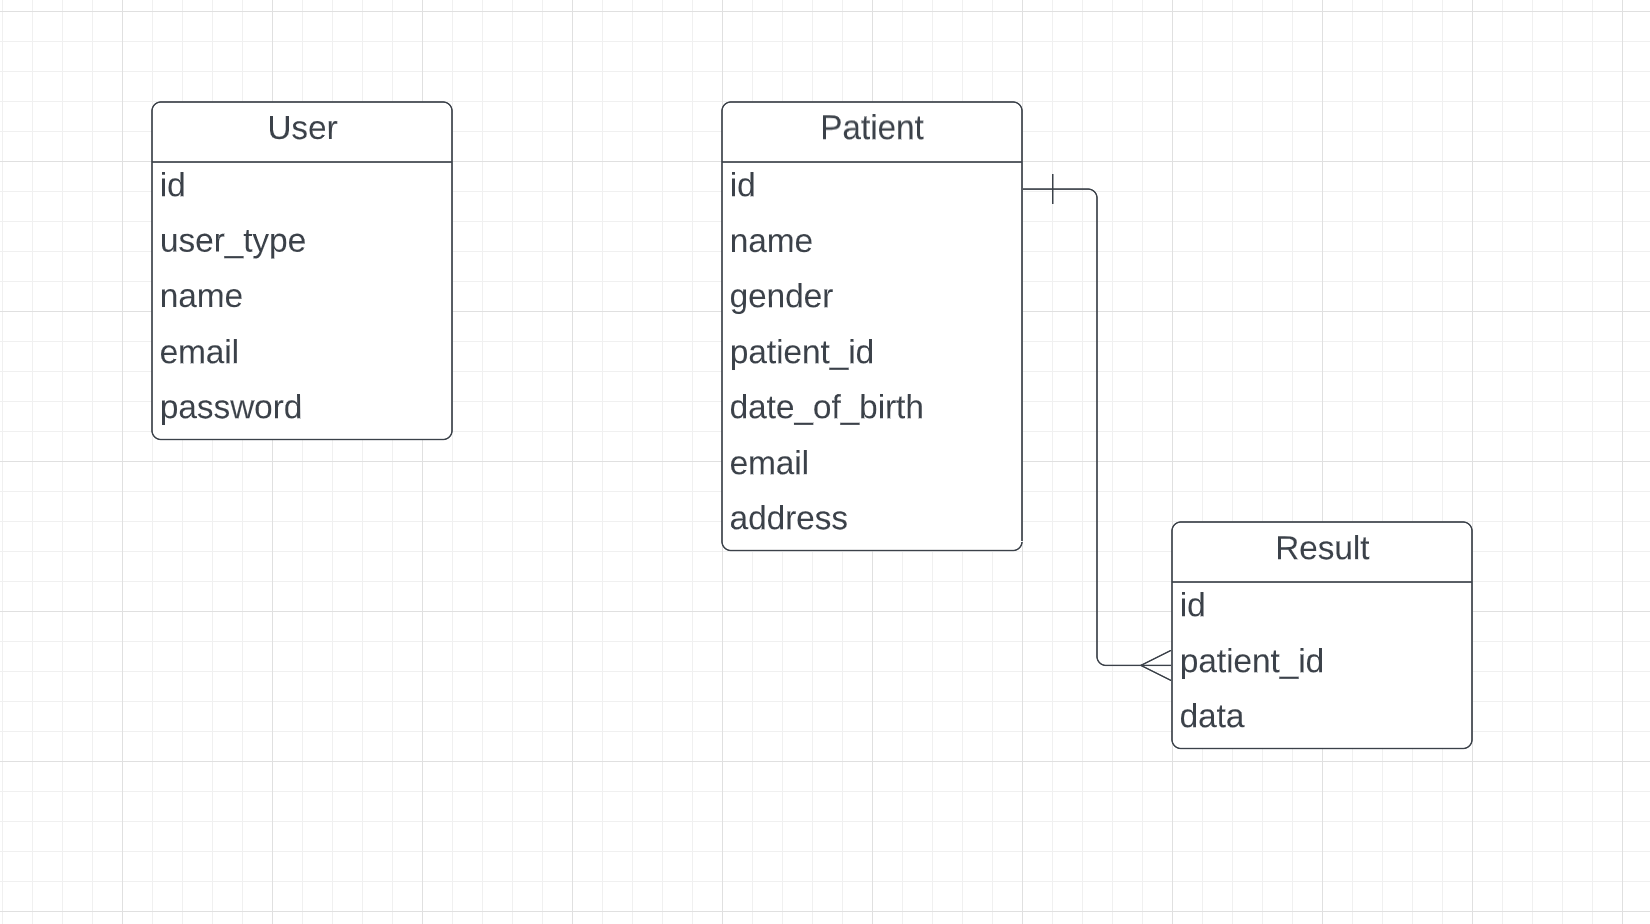
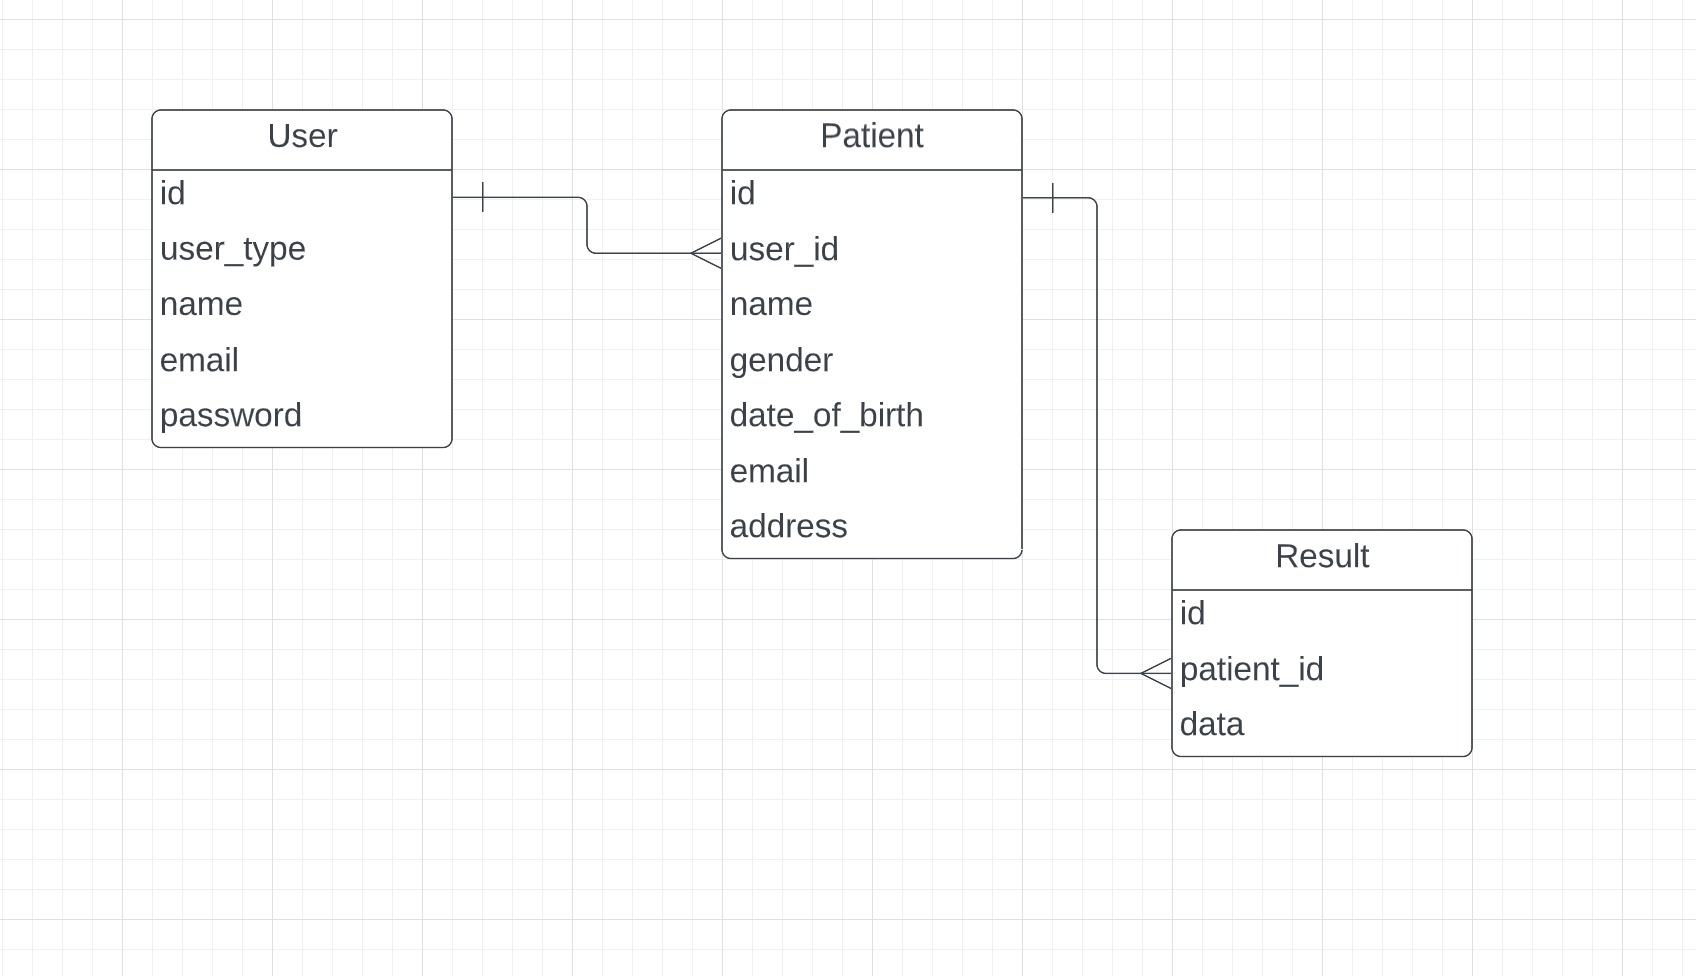
PERSUASIVE-xx project plan database structure

diff --git a/docs/project_plan_thijs.md b/docs/project_plan_thijs.md
@@ -1,0 +1,25 @@
+# Project Plan
+
+### Project Information
+
+For this application we have decided to use the PHP framework Laravel PHP in combination with Javascript framework VueJS by using the InertiaJS package.
+
+InertiaJS is a package that combines the power of Laravel with the simplicity of VueJS.
+It allows you to build your entire frontend using VueJS components, 
+while still using Laravel's powerful routing and backend features.
+
+[![Latest Version on Packagist](https://img.shields.io/badge/laravel-v9.x-red)](https://www.laravel.com)
+[![Latest Version on Packagist](https://img.shields.io/badge/vuejs-v3.x-brightgreen)](https://www.vuejs.org)
+[![Latest Version on Packagist](https://img.shields.io/badge/inertiajs-v1.x-purple)](https://www.inertiajs.com)
+
+### Data structuur
+
+The data structure of the application is shown in the ERD below.
+
+![ERD](images/erd.png)
+
+Persuasive has two types of users, scientists and GPs.
+
+While Scientists can add new research belonging to a patient,
+GPs can add new patients and view data belonging to a patient.
+
